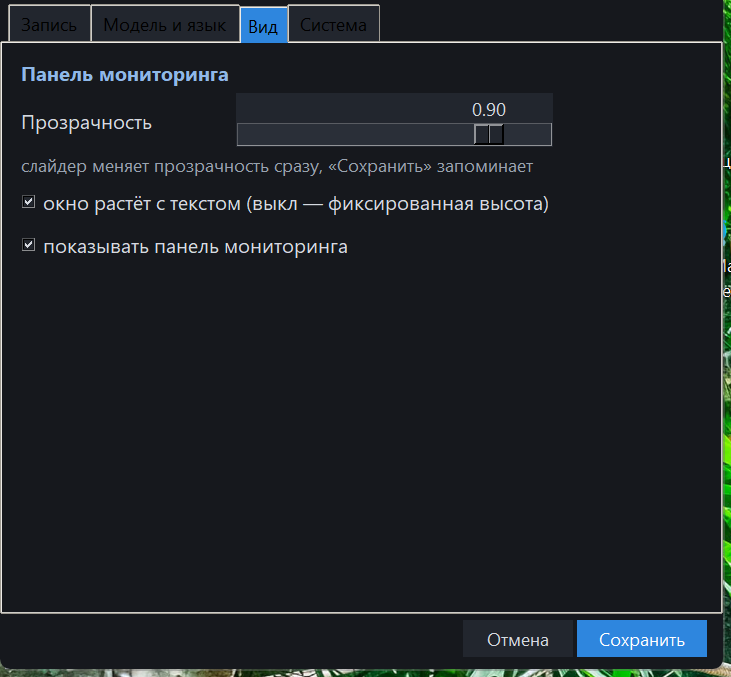
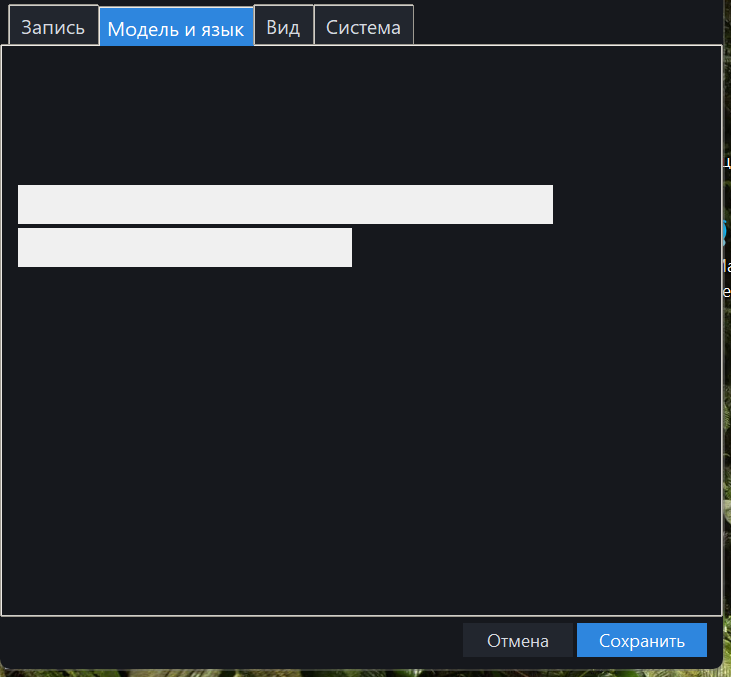
release: v0.1.8 — readable tab labels (clam ignores static tab fg; colors via state map)

Changed region(s): [[0.0, 0.0, 1.0, 1.0], [0.0, 0.1551, 0.7825, 0.4032]]

diff --git a/app/settings_window.py b/app/settings_window.py
@@ -154,11 +154,13 @@ class SettingsWindow:
             pass
         style.configure("Vibe.TNotebook", background=BG, borderwidth=0,
                         tabmargins=(8, 4, 8, 0))
-        style.configure("Vibe.TNotebook.Tab", background=FIELD_BG, fg=FG,
-                        padding=(10, 4))
+        # clam ignores a static foreground on tabs — drive ALL text colors
+        # through the state map (static fg renders as near-invisible dark)
+        style.configure("Vibe.TNotebook.Tab", background=FIELD_BG,
+                        padding=(10, 4), font=("Segoe UI", 10))
         style.map("Vibe.TNotebook.Tab",
                   background=[("selected", "#2E86DE")],
-                  fg=[("selected", "white")])
+                  foreground=[("selected", "white"), ("!selected", FG)])
 
         nb = self.nb = ttk.Notebook(body, style="Vibe.TNotebook")
         nb.pack(fill="both", expand=True)

diff --git a/app/config.py b/app/config.py
@@ -2,7 +2,7 @@
 import json
 import os
 
-VERSION = "0.1.7"
+VERSION = "0.1.8"
 
 SERVICE_DIR = os.path.dirname(os.path.abspath(__file__))
 CONFIG_PATH = os.path.join(SERVICE_DIR, "config.json")

diff --git a/CHANGELOG.md b/CHANGELOG.md
@@ -3,6 +3,14 @@
 All notable changes to VibeForma are documented here.
 The format follows [Keep a Changelog](https://keepachangelog.com/en/1.1.0/).
 
+## 0.1.8 — 2026-11-20
+
+### Fixed
+- **Tab labels are readable now.** The clam theme ignores a static tab
+  foreground, so the inactive tabs rendered near-invisible dark-on-dark.
+  All tab text colors now go through the style state map (white on the
+  selected tab, light gray on the rest).
+
 ## 0.1.7 — 2026-11-20
 
 ### Fixed
